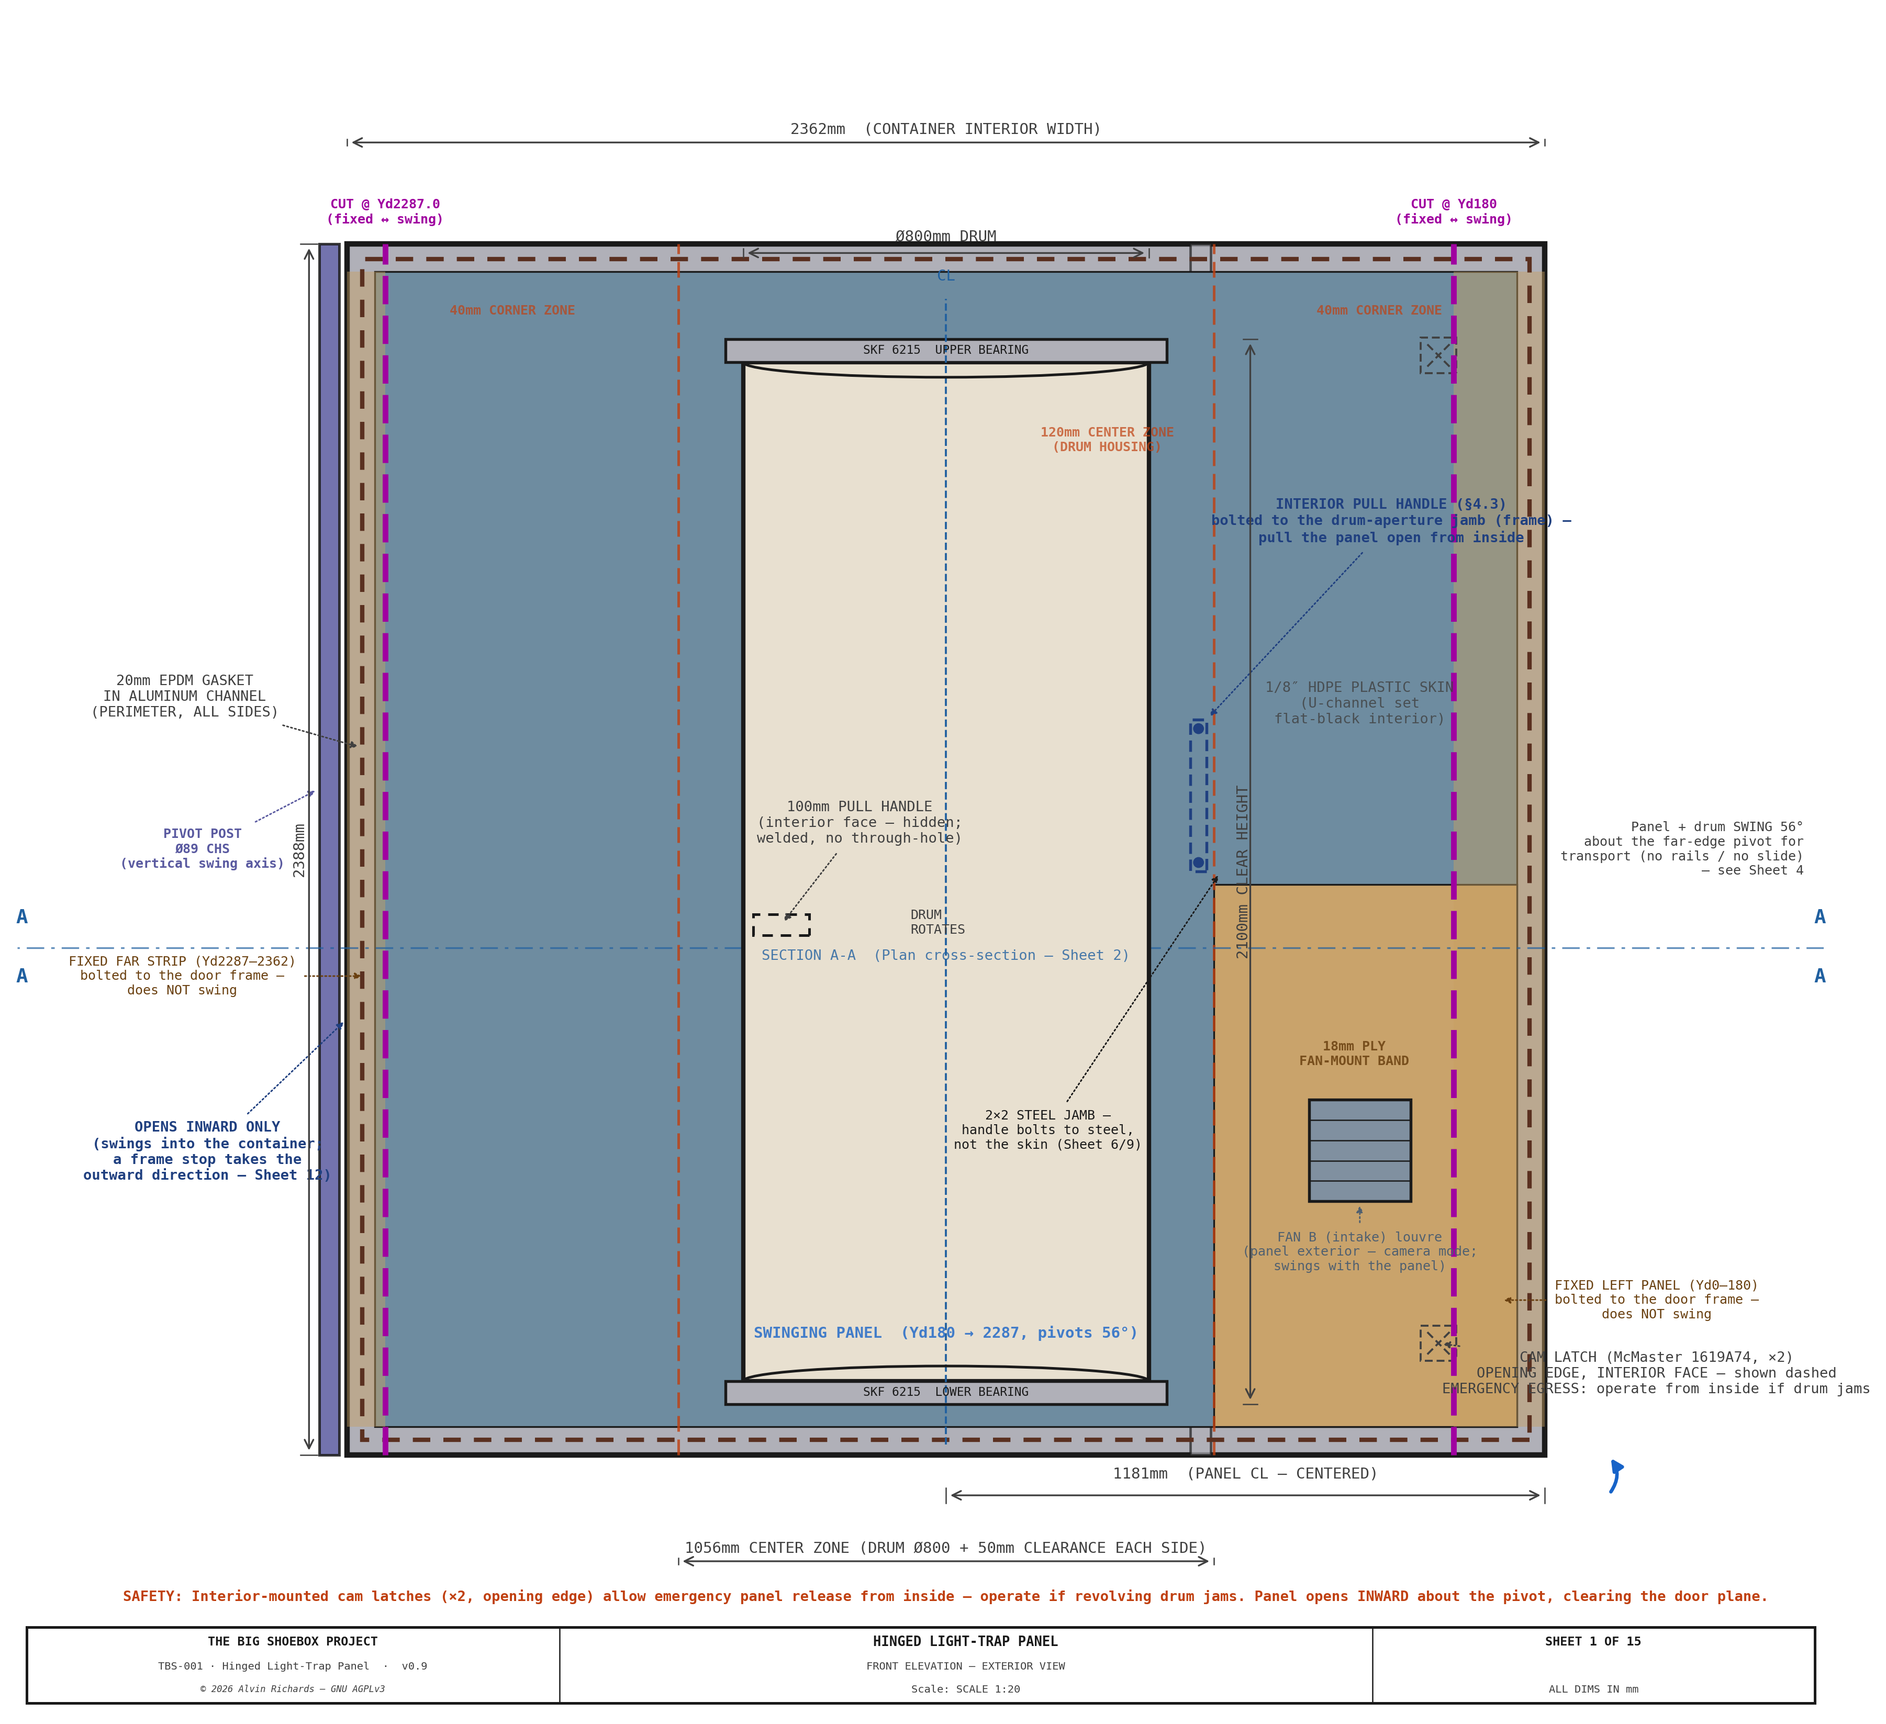
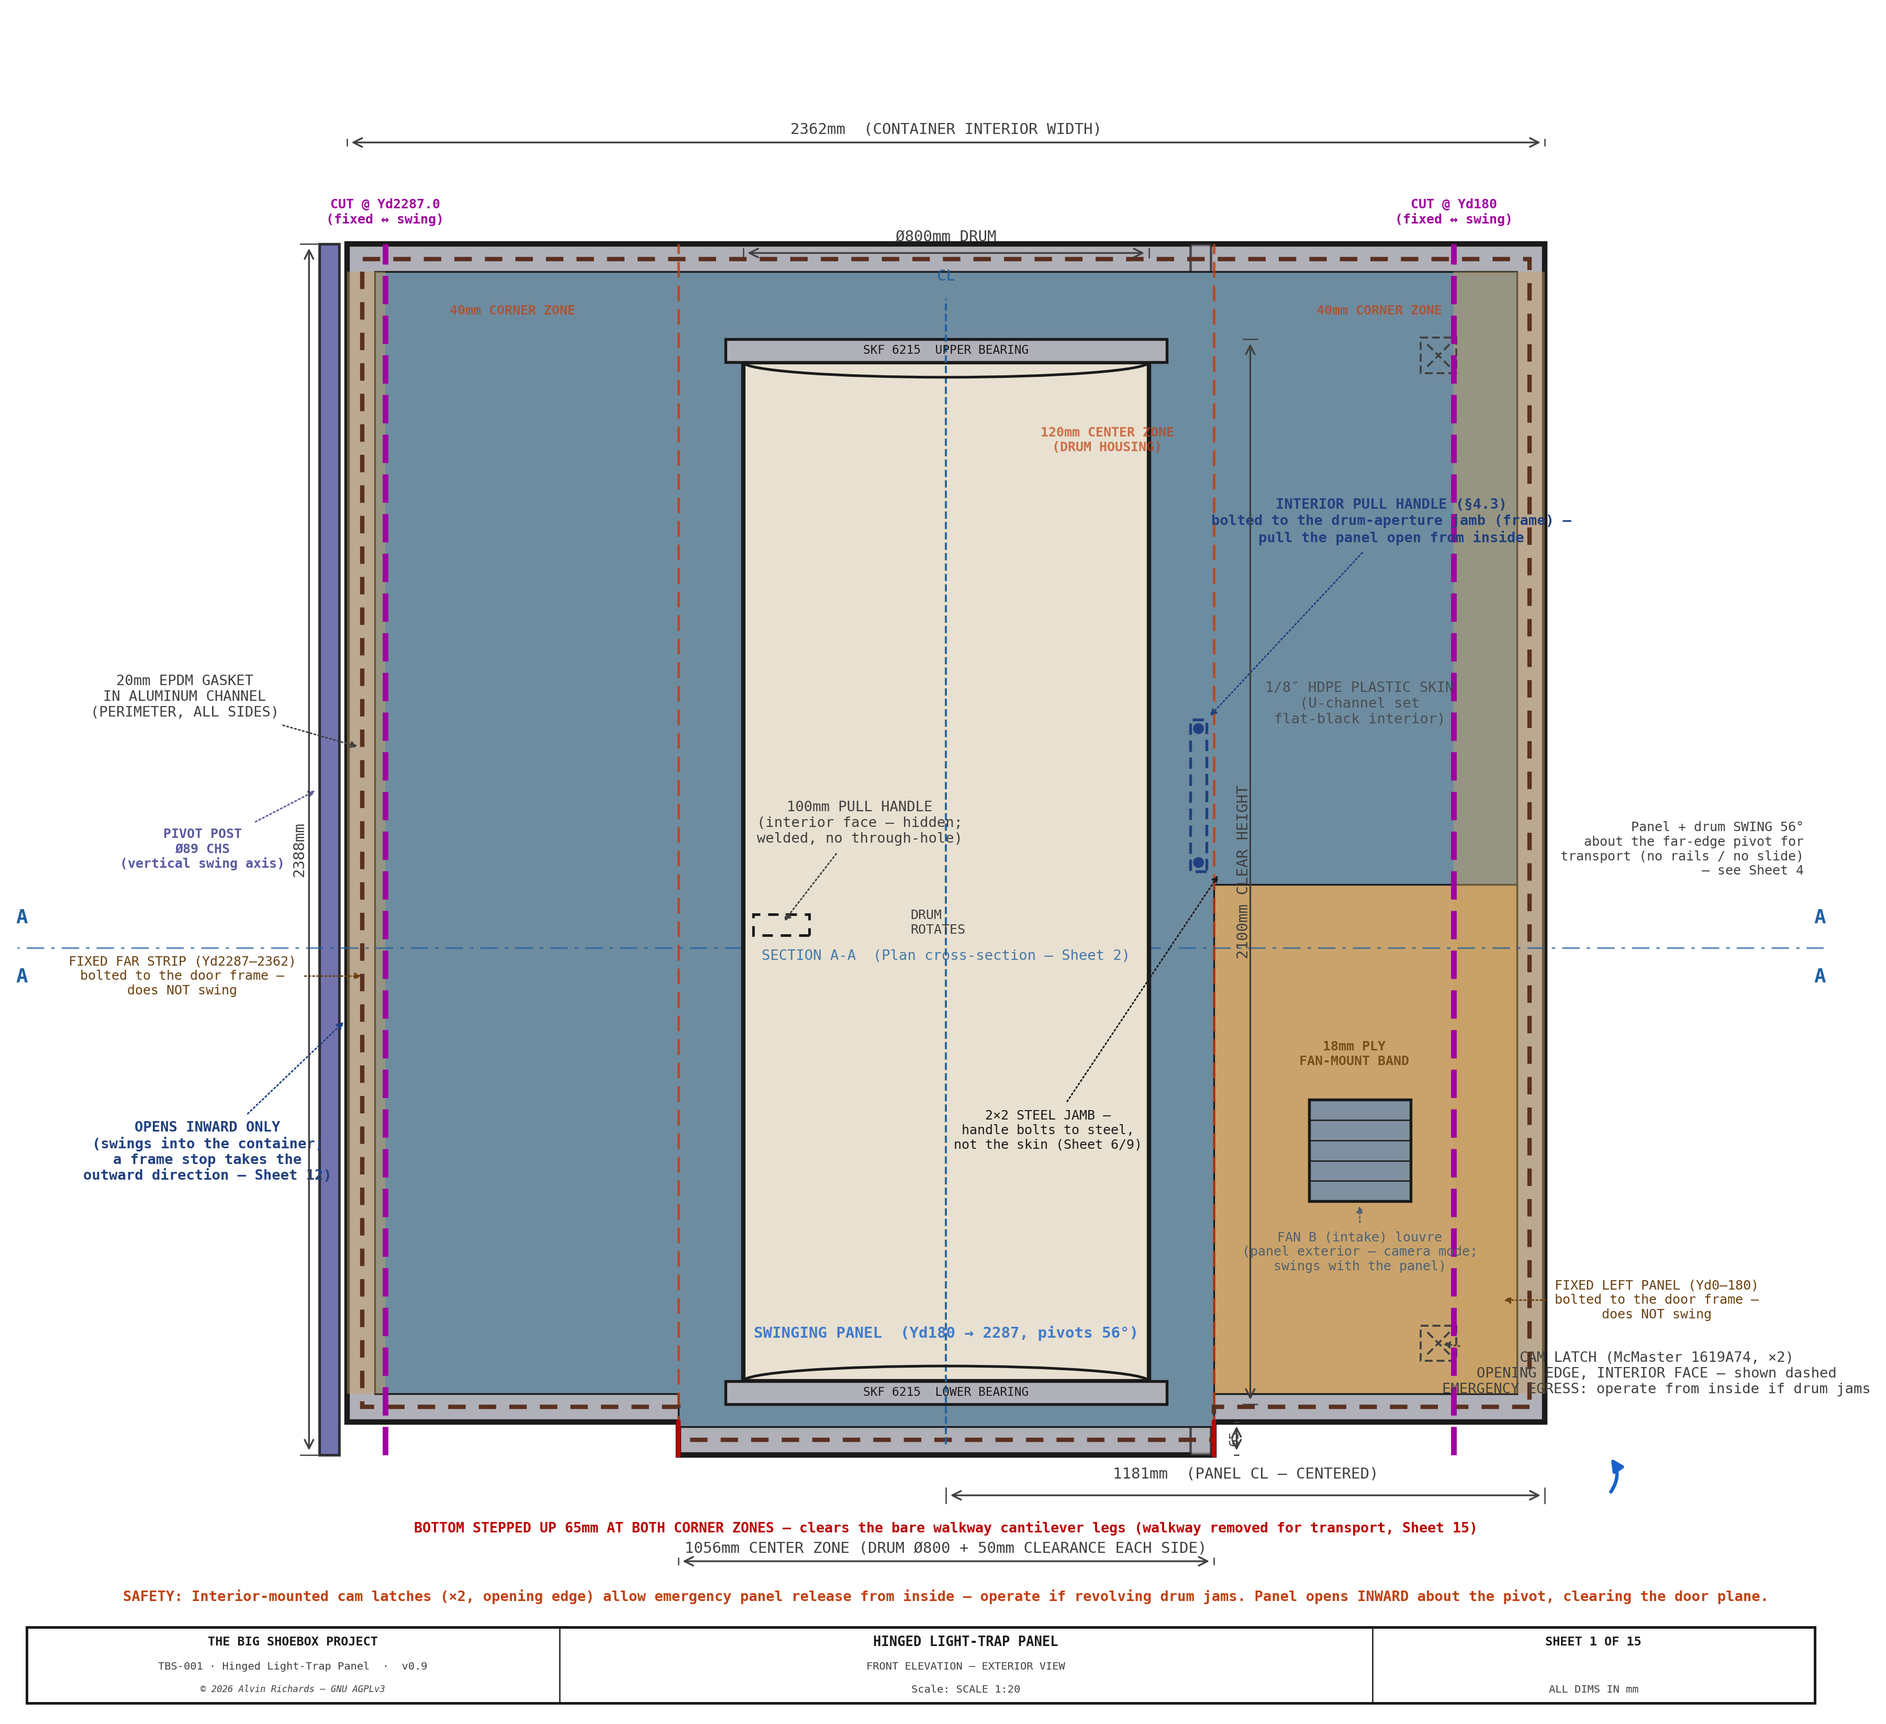
hingepanel: propagate the derived bottom STEP into the 2D set (Sheets 1, 9, 15)
Single-source the step: PANEL_FLOOR_GAP_SIDE (195) + PANEL_BOTTOM_STEP (65) in
tbs_constants.py, derived as WALKWAY_BRACKET_H + the same 15mm margin the center
bottom keeps over the Z115 arms.

Sheet 9 (frame GA) — bottom rail is now 3 segments: center (jL..jR) at Z0 over
the tray, both corner rails (yL..jL / jR..yR) stepped up 65mm; stiles/pivot-vert
bottoms raised; step risers + 65 dim + callout; member schedule updated
(stiles 2388->2323, bottom rails 473+1056+578).
Sheet 1 (elevation) — frame, skin, fan-mount band, EPDM seal and both fixed
strips follow the stepped bottom (sbot() helper); red step risers + 65 dim +
callout.
Sheet 15 reads PANEL_FLOOR_GAP_SIDE instead of recomputing.

Next: push the step into the 3D hinge_panel().

Changed region(s): [[0.6217, 0.8051, 0.8393, 0.867], [0.1865, 0.8051, 0.373, 0.867], [0.373, 0.867, 0.4041, 0.898]]

diff --git a/src/generators/generate_hingepanel_diagram.py b/src/generators/generate_hingepanel_diagram.py
@@ -92,26 +92,38 @@ def sheet1():
             ha="center", va="bottom", fontsize=7, color=C_DIM, **FONT, style="italic", zorder=20)
 
     # ── Panel body ────────────────────────────────────────────────────────────
-    # Outer steel frame (50mm wide)
-    ax.add_patch(Rectangle((0, 0), PW, PH, fc=C_STEEL, ec=C_OUT, lw=2.5, zorder=2))
-    # Skin area (inset of frame): rev11 — 1/8″ HDPE plastic sheet (C_PLASTIC)
+    # The panel bottom is STEPPED: the two corner zones (Yd0..PANEL_CORNER_YD_L and
+    # PANEL_CORNER_YD_R..PW) step UP by PANEL_BOTTOM_STEP to clear the bare walkway
+    # cantilever bracket legs (walkway removed for transport — Sheet 15); the center
+    # (drum bay) keeps the low bottom over the tray.
+    from tbs_constants import PANEL_BOTTOM_STEP as STEP
+    _sjL, _sjR = PANEL_CORNER_YD_L, PANEL_CORNER_YD_R
+
+    def sbot(x0, x1, ztop, base):
+        """Stepped-bottom band polygon: center bottom at `base`, corner bottoms at base+STEP."""
+        return [(x0, base + STEP), (_sjL, base + STEP), (_sjL, base), (_sjR, base),
+                (_sjR, base + STEP), (x1, base + STEP), (x1, ztop), (x0, ztop)]
+
+    # Outer steel frame (50mm wide) — stepped bottom
+    ax.add_patch(Polygon(sbot(0, PW, PH, 0), closed=True, fc=C_STEEL, ec=C_OUT, lw=2.5, zorder=2))
+    # Skin area (inset of frame): rev11 — 1/8″ HDPE plastic sheet (C_PLASTIC), stepped bottom
     FR = 55  # visible frame width at face
-    ax.add_patch(Rectangle((FR, FR), PW - 2 * FR, PH - 2 * FR,
-                            fc=C_PLASTIC, ec=C_OUT, lw=0.8, zorder=3))
+    ax.add_patch(Polygon(sbot(FR, PW - FR, PH - FR, FR), closed=True,
+                         fc=C_PLASTIC, ec=C_OUT, lw=0.8, zorder=3))
     ax.text(PW / 4 - 225, PH * 0.62,
             "1/8″ HDPE PLASTIC SKIN\n(U-channel set\nflat-black interior)",
             color=C_DIM, fontsize=6.5, ha="center", va="center", **FONT, zorder=15, alpha=0.8)
     # Fan B corner keeps an 18mm PLYWOOD mount band (bottom up to PANEL_FAN_BAND_Z)
     from tbs_constants import PANEL_FAN_BAND_Z as _PFBZ
-    ax.add_patch(Rectangle((FR, FR), PANEL_CORNER_YD_L - FR, _PFBZ - FR,
-                            fc=C_WOOD, ec=C_OUT, lw=0.8, zorder=3.2))
+    ax.add_patch(Rectangle((FR, STEP + FR), PANEL_CORNER_YD_L - FR, _PFBZ - STEP - FR,
+                            fc=C_WOOD, ec=C_OUT, lw=0.8, zorder=3.2))    # bottom raised with the corner step
     ax.text(PANEL_CORNER_YD_L / 2 + 50, (_PFBZ + FR) / 2 + 200,
             "18mm PLY\nFAN-MOUNT BAND", color="#6a4010", fontsize=6,
             ha="center", va="center", fontweight="bold", **FONT, zorder=15, alpha=0.85)
 
     # ── EPDM perimeter seal (dashed inner contour) ────────────────────────────
     S = 30  # seal inset
-    epdm = plt.Polygon([(S, S), (PW - S, S), (PW - S, PH - S), (S, PH - S)],
+    epdm = plt.Polygon(sbot(S, PW - S, PH - S, S),
                        closed=True, fill=False, ec=C_GASKT, lw=2.0, ls=(0, (4, 3)),
                        zorder=5)
     ax.add_patch(epdm)
@@ -140,8 +152,8 @@ def sheet1():
     # The fixed strips are bolted to the door FRAME (hatched); the swinging panel butts them
     # at the cut lines. Cut lines drawn bold and on top so they read at both panel edges.
     from tbs_constants import PANEL_CUT_YD as _CUT, FAR_STRIP_YD0 as _FAR
-    for (y0, y1) in [(0, _CUT), (_FAR, PW)]:
-        ax.add_patch(Rectangle((y0, FR), y1 - y0, PH - 2 * FR, fc="#C8A060",
+    for (y0, y1) in [(0, _CUT), (_FAR, PW)]:                  # both fixed strips sit in the stepped corner zones
+        ax.add_patch(Rectangle((y0, STEP + FR), y1 - y0, PH - 2 * FR - STEP, fc="#C8A060",
                                ec="none", alpha=0.45, hatch="\\\\\\", zorder=4))
     for cx in [_CUT, _FAR]:
         ax.plot([cx, cx], [0, PH], color="#A000A0", lw=2.6, ls=(0, (5, 2)), zorder=11)
@@ -153,6 +165,13 @@ def sheet1():
            "FIXED LEFT PANEL (Yd0–180)\nbolted to the door frame —\ndoes NOT swing", col="#6a4010", fs=6)
     ax.text(PW / 2, FR + 170, "SWINGING PANEL  (Yd180 → 2287, pivots 56°)", color="#1763C8",
             fontsize=7, ha="center", va="bottom", fontweight="bold", **FONT, zorder=15, alpha=0.8)
+    # ── bottom-step callout (corner zones raised to clear the walkway cantilever legs) ──
+    for _sx in (PANEL_CORNER_YD_L, PANEL_CORNER_YD_R):
+        ax.plot([_sx, _sx], [0, STEP], color="#B00", lw=2.0, zorder=12)
+    draw_dim_v(ax, PANEL_CORNER_YD_L - 45, 0, STEP, f"{STEP}", offset=14, fs=6, font=FONT, right=False)
+    ax.text(PW / 2, -145,
+            f"BOTTOM STEPPED UP {STEP}mm AT BOTH CORNER ZONES — clears the bare walkway cantilever legs (walkway removed for transport, Sheet 15)",
+            ha="center", va="center", fontsize=6.4, color="#B00", fontweight="bold", **FONT, zorder=15)
 
     # ── Fan B intake — weatherproof louvre on the panel exterior (near corner) ──
     from tbs_constants import FAN_B_YD as _FBY, FAN_B_H as _FBH
@@ -2002,6 +2021,7 @@ def sheet9():
     jL, jR = PANEL_CORNER_YD_L, PANEL_CORNER_YD_R   # 653, 1709 — center-zone jambs
     z_hdr = LT_CAGE_TOP                     # 2217 — header over the drum cage
     z_sill = 130                            # sill under the cage (floor gap)
+    from tbs_constants import PANEL_BOTTOM_STEP as STEP   # 65 — corner-zone bottom step-up (Sheet 15)
 
     fig, ax = plt.subplots(figsize=(16, 15))
     fig.patch.set_facecolor(BG); ax.set_facecolor(BG)
@@ -2046,14 +2066,24 @@ def sheet9():
             ha="center", va="center", fontsize=7.5, fontweight="bold", color=C_OUT, **FONT, zorder=6)
 
     # ── swinging-frame perimeter + internal members ──
-    vbar(yL, 0, PH, "LEFT SWING STILE\n(2×2×0.120in RHS — transport-stay\nhooks weld here, Sheet 12)", (PH * 0.78, (-260, PH * 0.86)))
-    vbar(yR - RHS, 0, PH)                                     # pivot-side vertical
+    vbar(yL, STEP, PH, "LEFT SWING STILE\n(2×2×0.120in RHS — transport-stay\nhooks weld here, Sheet 12)", (PH * 0.78, (-260, PH * 0.86)))  # bottom stepped up
+    vbar(yR - RHS, STEP, PH)                                  # pivot-side vertical (bottom stepped up)
     hbar(PH - RHS, yL, yR)                                    # top rail
-    hbar(0, yL, yR)                                           # bottom rail
+    # STEPPED bottom rail: center (jL..jR, drum bay) at Z0 — the corner zones step UP by STEP to clear
+    # the bare wall-cantilever bracket legs when the walkway is lifted out for transport (Sheet 15).
+    hbar(STEP, yL, jL)                                        # near-corner bottom rail (raised)
+    hbar(0, jL, jR)                                           # center bottom rail (lowest — over the tray)
+    hbar(STEP, jR, yR)                                        # far-corner bottom rail (raised)
     vbar(jL, 0, PH, "CENTER-ZONE JAMB\n(both sides — surround\nrivets here, Sheet 8)", (1700, (400, 1900)))
     vbar(jR, 0, PH)                                           # far center jamb
     hbar(z_hdr, jL, jR)                                       # drum header
     hbar(z_sill - RHS, jL, jR)                                 # drum sill
+    # ── bottom-step callout + dim (both corner zones raised by STEP) ──
+    for sxr in (jL, jR + RHS):                                # step risers at the outboard jamb faces
+        ax.plot([sxr, sxr], [0, STEP], color="#B00", lw=2.2, zorder=8)
+    draw_dim_v(ax, yL - 55, 0, STEP, f"{STEP} step", offset=12, fs=6, font=FONT, right=False)
+    leader(ax, ((yL + jL) / 2, STEP), ((yL + jL) / 2 + 80, -205),
+           f"CORNER BOTTOM STEPPED UP {STEP}mm at BOTH sides\n(clears the bare walkway cantilever legs;\nwalkway removed for transport — Sheet 15)", col="#B00", fw="bold", fs=6)
 
     # ── pivot post (Yd = PIVOT_YD) → Sheet 10 ──
     ax.add_patch(Rectangle((yR - PIVOT_POST_OD / 2, 0), PIVOT_POST_OD, PH, fc=C_STEEL, ec=C_OUT, lw=1.2, alpha=0.9, zorder=7))   # vertical Ø89 post (front elevation → a vertical tube)
@@ -2076,9 +2106,10 @@ def sheet9():
     rows = [
         "MEMBER SCHEDULE",
         "(2×2×0.120in / 50.8mm A500 SHS)",
-        " Stile Yd180 ....... 1 × 2,388",
-        " Pivot vert Yd2287 . 1 × 2,388",
-        " Top/bottom rails .. 2 × 2,107",
+        " Stile Yd180 ....... 1 × 2,323",
+        " Pivot vert Yd2287 . 1 × 2,323",
+        " Top rail .......... 1 × 2,107",
+        " Btm rails (stepped) 473 + 1,056 + 578",
         " Center jambs ...... 2 × 2,388",
         " Header + sill ..... 2 × 1,056",
     ]
@@ -2546,16 +2577,15 @@ def sheet12():
 #   bottoms Z195. Reconciles the 2D set with the stepped-frame bottom seen in the 3D model.
 # ═══════════════════════════════════════════════════════════════════════════════
 def sheet15():
-    from tbs_constants import (PANEL_FLOOR_GAP as P_CTR, PANEL_CORNER_YD_L as jL,
-                               PANEL_CORNER_YD_R as jR, WALKWAY_W, WALKWAY_H, WALKWAY_GRATE_T,
-                               WALKWAY_BRACKET_H as WALL_LEG, WALKWAY_WIDE_BRACKET_H as WALL_LEG_W,
-                               WALKWAY_BRACKET_ARM_Z0 as ARM_BOT, PROC_TRAY_YD_NEAR,
-                               PROC_TRAY_YD_FAR, PROC_TRAY_RIM, LEFT_WK_CANT_LEG_YDS,
-                               LEFT_WK_CANT_POST_W)
+    from tbs_constants import (PANEL_FLOOR_GAP as P_CTR, PANEL_FLOOR_GAP_SIDE as P_SIDE,
+                               PANEL_CORNER_YD_L as jL, PANEL_CORNER_YD_R as jR, WALKWAY_W,
+                               WALKWAY_H, WALKWAY_GRATE_T, WALKWAY_BRACKET_H as WALL_LEG,
+                               WALKWAY_WIDE_BRACKET_H as WALL_LEG_W, WALKWAY_BRACKET_ARM_Z0 as ARM_BOT,
+                               PROC_TRAY_YD_NEAR, PROC_TRAY_YD_FAR, PROC_TRAY_RIM,
+                               LEFT_WK_CANT_LEG_YDS, LEFT_WK_CANT_POST_W)
     WID     = PW
     ARM_TOP = WALKWAY_H - WALKWAY_GRATE_T      # 115 — grate seat / arm top
-    CLR     = P_CTR - ARM_TOP                  # 15 — clearance over the arm/post tops
-    P_SIDE  = WALL_LEG + CLR                   # 195 — derived stepped side bottom (Z180 std leg + 15)
+    CLR     = P_CTR - ARM_TOP                  # 15 — clearance over the arm/post tops (= P_SIDE − WALL_LEG)
     BREAK_Z = 430
 
     fig, ax = plt.subplots(figsize=(22, 8))

diff --git a/src/generators/tbs_constants.py b/src/generators/tbs_constants.py
@@ -1028,6 +1028,13 @@ WALKWAY_BRACKET_H = 180  # bracket vertical leg height on wall (mm) — raised 1
 WALKWAY_BRACKET_UPPER_BOLT_Z = WALKWAY_H + 15  # 155 — upper wall-bolt Z, SHARED by standard + widened brackets (2D sheets 2/7 + 3D _cantilever_parts). Sits 15mm above the grate top (WALKWAY_H) so the nut clears the deck. Both legs (std 180 / widened 200) hold it with ≥1.5·D top edge.
 WALKWAY_BRACKET_T = 8    # bracket plate thickness (mm)
 WALKWAY_BRACKET_SPACING = CONTAINER_RIB_SPACING  # bracket spacing along walkway (mm)
+# Hinged-panel bottom STEP (derived) — at the near/far side CORNER zones the swinging panel bottom
+# must clear the BARE wall-cantilever bracket vertical legs (WALKWAY_BRACKET_H) when the walkway is
+# lifted out for transport, with the SAME 15mm margin the center bottom keeps over the Z115 arms
+# (PANEL_FLOOR_GAP − arm-top). So the two corner zones step UP from PANEL_FLOOR_GAP (130) to this.
+# The center zone (drum bay, Yd PANEL_CORNER_YD_L..R) stays at PANEL_FLOOR_GAP. See hinged-panel Sheet 15.
+PANEL_FLOOR_GAP_SIDE = WALKWAY_BRACKET_H + (PANEL_FLOOR_GAP - (WALKWAY_H - WALKWAY_GRATE_T))  # 195
+PANEL_BOTTOM_STEP    = PANEL_FLOOR_GAP_SIDE - PANEL_FLOOR_GAP                                  # 65 — corner step-up
 # Cantilever bracket ARM section — REDESIGNED to the US IBC/OSHA basis (60 psf + 300 lbf concentrated,
 # IBC Table 1607.1; walkway_load.py). The as-drawn 8mm×10mm plate arm yielded at ~25 lbf; the governing
 # case is the 300 lbf tip point load (M = 400 N·m std / 667 N·m widened). Arm DEPTH is capped at 25.4mm

diff --git a/RELEASE.md b/RELEASE.md
@@ -43,6 +43,12 @@ file** — a release must not ship without a changelog entry:
   **welded keeper on the steel-framed stub wall**; the panel now **opens INWARD only** against a frame
   stop (aged-out 180° outward swing removed across Sheet 1, the report, and equipment-layout §9). Net
   panel cost **+$47/$33/$19** (cam latch).
+- **Hinged panel — stepped bottom propagated into the 2D set.** Single-sourced the derived bottom step
+  (`PANEL_FLOOR_GAP_SIDE` = 195, `PANEL_BOTTOM_STEP` = 65 in `tbs_constants.py`) and drew it on **Sheet 9**
+  (frame GA — the bottom rail is now three segments: center at Z0 over the tray, both corner rails stepped
+  up 65 mm, with the member schedule + step risers/dim updated) and **Sheet 1** (elevation — frame, skin,
+  fan-mount band, EPDM seal and fixed strips all follow the stepped bottom, with a callout). Sheet 15 now
+  reads the same constant. Next: push the step into the 3D `hinge_panel()`.
 - **Hinged panel — Sheet 15: bottom clearance cross-section (new).** Added a Yd–Z clearance-envelope
   section (walkway grate lifted out for transport) that reconciles the 2D set with the **stepped frame
   bottom** in the 3D model. It shows the near/far **side-wall cantilever brackets** (vertical legs Z180
